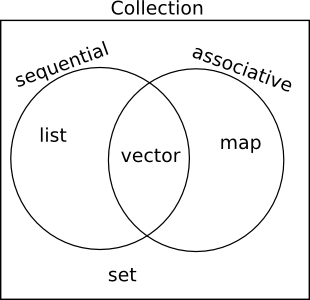
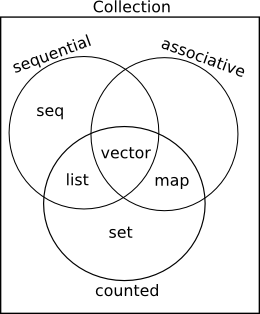
Add counted? to the list of coll properties.

diff --git a/src/seqs/html/main.html b/src/seqs/html/main.html
@@ -20,23 +20,33 @@ and how they work together.
 <h2>Collections</h2>
 
 <figure class="ill">
-  <img src="collection-properties-venn.png" width="310" height="300"
+  <img src="collection-properties-venn.png" width="260" height="314"
        alt="Venn diagram of collection types by properties">
   <figcaption class="ill-cap">Collections divided by properties</figcaption>
 </figure>
 
 <p>
-A <dfn>collection</dfn> may be identified by the predicate <code>coll?</code>.
-Collections may be <dfn>associative</dfn>, <dfn>sequential</dfn>,
-both, or neither.
-Associative colls support key-value lookups.
-Maps are the traditional associative data structure,
-but vectors can be treated as mappings of indices to values.
-Sequential colls retain a linear ordering under insertion and deletion.
-Lists and vectors have this property.
-Note that a vector is both sequential and associative
-while a set is neither.
-</p>
+A <dfn>collection</dfn> is a bag of values
+claiming the <code>clojure.lang.IPersistentCollection</code> interface.
+This may be discovered using the predicate <code>coll?</code>.
+Any given collection type may match one or more of the following predicates:</p>
+
+<dl>
+  <dt><code>counted?</code></dt>
+  <dd>These colls know their size and can calculate their <code>count</code>
+      in constant time, without actually traversing their data.</dd>
+
+  <dt><code>associative?</code></dt>
+  <dd>Associative colls support key-value lookups.
+      Maps are the traditional associative data structure,
+      but vectors can be treated as mappings of indices to values.</dd>
+  
+  <dt><code>sequential?</code></dt>
+  <dd>Sequential colls retain a linear ordering under insertion and deletion.
+      Lists and vectors have this property.
+      Note that a vector is both sequential and associative
+      while a set is neither.</dd>
+</dl>
 
 <div id="tbl-colltypes"></div>
 
